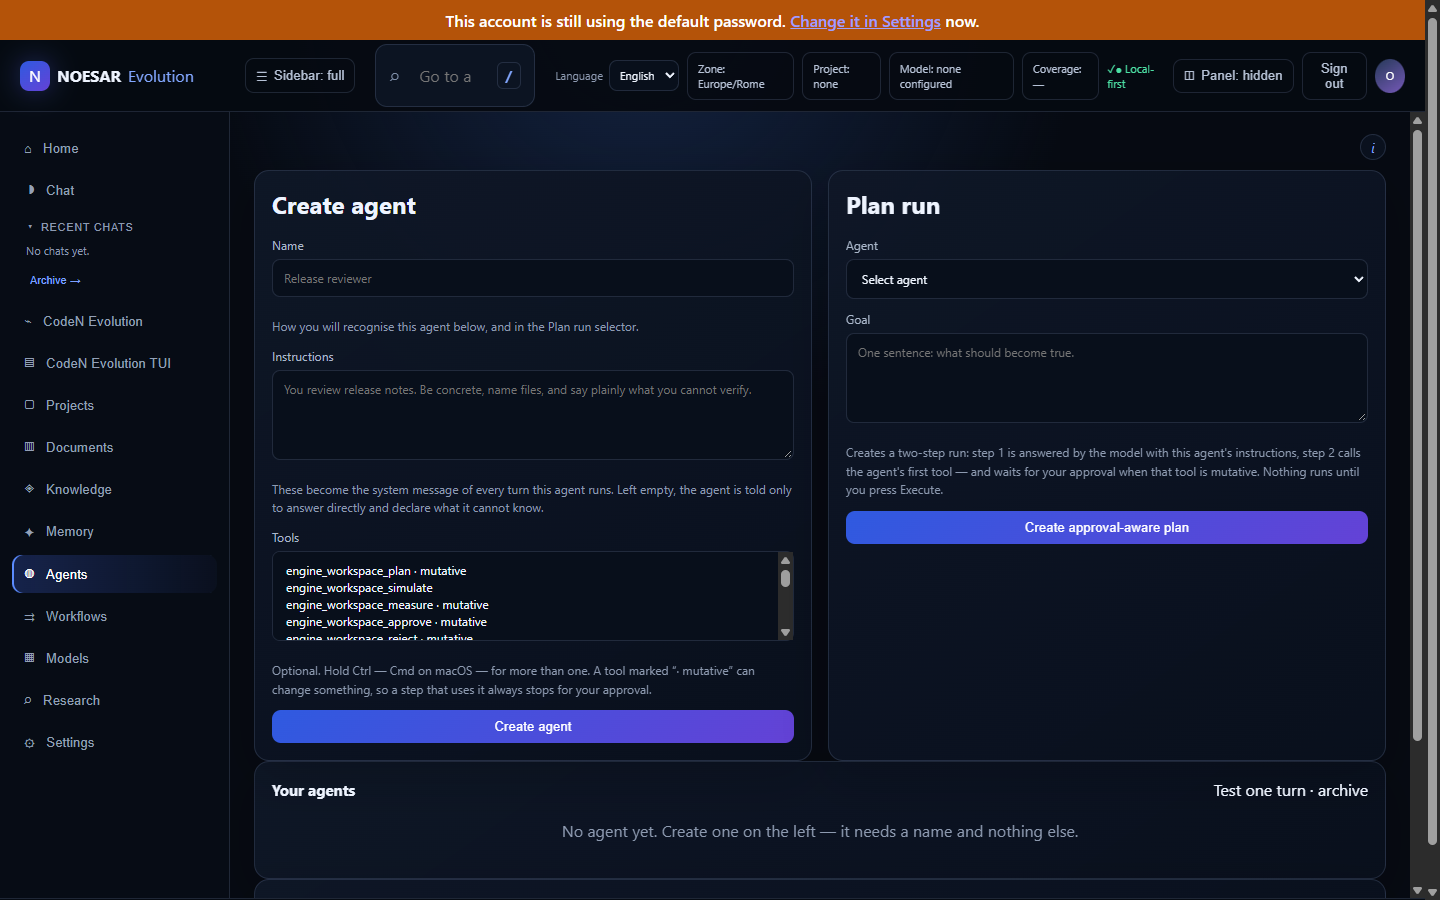
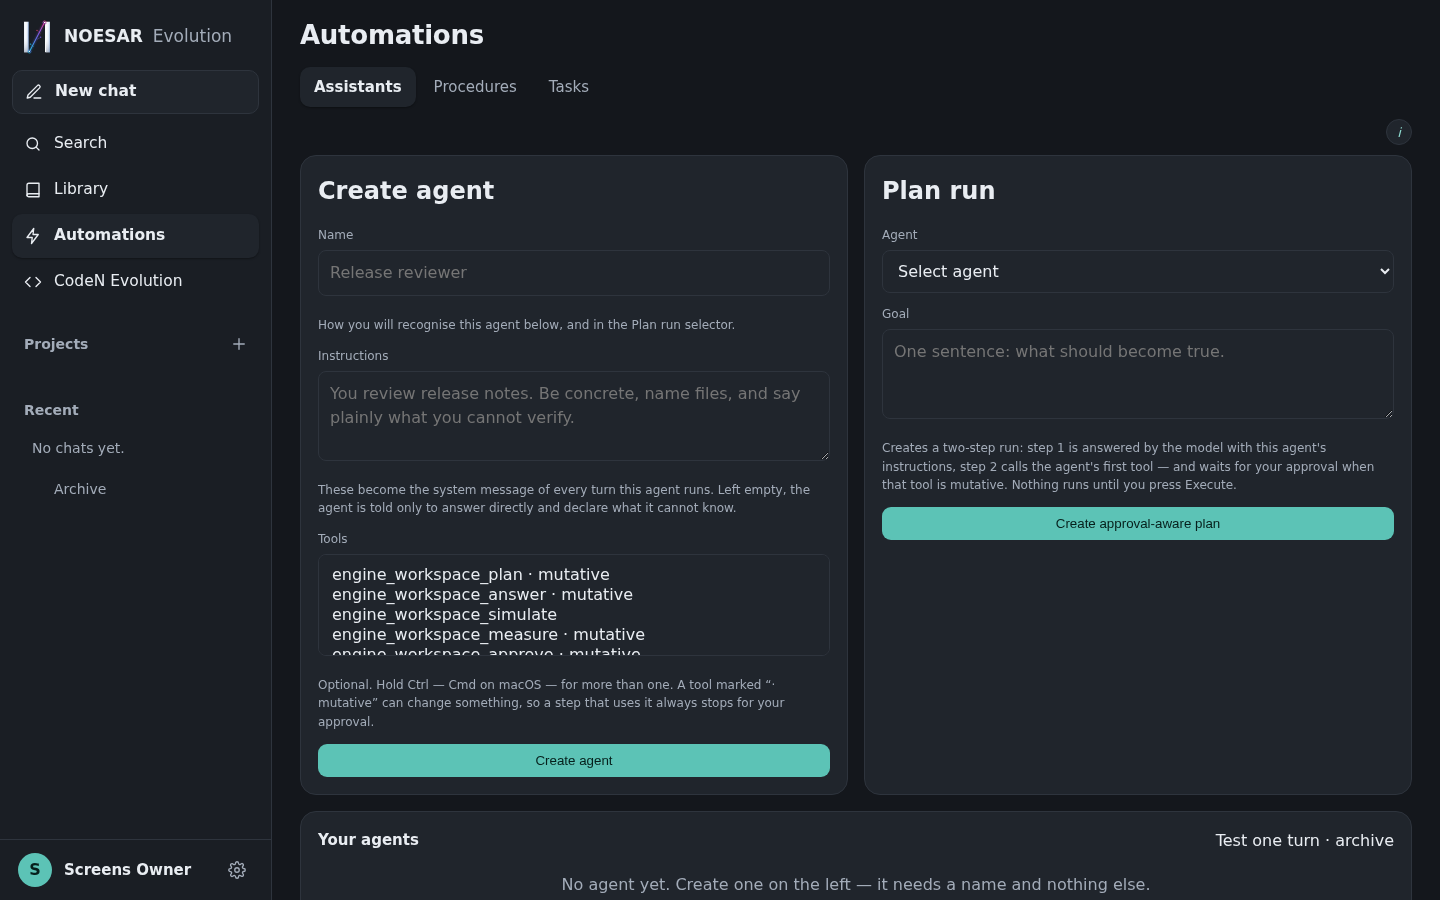
release: 0.4.0 -- one interface, six languages, and a web search that does not carry a person's documents out
The version (the constant the server announces, package.json, package-lock.json), the CHANGELOG entry, the figures of the README and the two pictures at its head. Nothing else:
`git diff --stat 8db52b4d..HEAD` is this list. The only line of code is `RELEASE_VERSION` in src/release-version.mjs, which release-version.test.mjs holds equal to the
two JSON files.

The figures were measured on 2026-10-16, from a clean clone of 8db52b4d (the code commit; GitHub's `gates` run on it is green): unit suite 3865 tests,
3830 pass, 0 fail, 35 skip (node:22-bookworm + openssh, zip, tzdata; the skipped need qrencode, the sandbox binary or the vendored ATOM binary); ESLint 563 files, 0 errors;
battery pass=22 fail=0 unavailable=1; installers 140 checks, 0 failures; engine 38 methods (24 read, 12 write, 2 destroy), 36 registered as tools; manifest 6822 files
complete against git; secret scan, no leaks over 1174 commits. On the same code: browser acceptance harness 523/523, tools/sweep-pages.mjs 855/855, WCAG audit 27/27
(on the tree of 8db52b4d).

The two pictures showed the Home, which no longer exists, on a 0.1.0 installation. They are now the chat and the Automations page of a fresh 0.4.0 installation, made with the
harness's own capture tool cut down to those two pages, and the caption says so. docs/screenshots/home.png is chat.png.

The release is published by the Owner (tag, push of the tag, GitHub release): this commit is on a branch and nothing in it publishes.

diff --git a/CHANGELOG.md b/CHANGELOG.md
@@ -6,6 +6,166 @@ reproduce from the tree is a defect, the same rule `README.md` states for its nu
 The format follows [Keep a Changelog](https://keepachangelog.com/en/1.1.0/); versions follow
 [Semantic Versioning](https://semver.org/spec/v2.0.0.html).
 
+## [0.4.0] — 2026-10-16
+
+A minor release, because **the interface is now one interface, and the assistant can search the web
+without a person's documents going out with the search**. Every number below states the conditions
+it was measured in, and every limit is listed beside the thing it limits.
+
+If you are on `0.3.0` or earlier, upgrade, for the reason under **Security**: until `05c28251` a
+signed-in account could read the engine's own credential files.
+
+### How it was measured
+
+On the author's development host, with invented data and the conditions written beside each number.
+
+- **Does a person's data leave with a web search?** A contract is pasted into the chat (invented, with
+  a tax code, an IBAN and a phone number whose check digits are real), then the question asks for a
+  search on the web. 3 different requests × 4 repetitions = 12 conversations per copy, the same local
+  model (Qwen2.5 7B) in both. In place of the internet, a stand-in search engine records every query it
+  receives: exactly what would have gone out.
+
+  | | searches that went out | **searches that carried data of the contract** |
+  |---|---|---|
+  | the build of 8 October (`53216a06`) | 12 of 12 | **8 of 12** |
+  | with the gate (`e7284156`) | 12 of 12 | **0 of 12** |
+
+  One scenario, one model, invented data: this is not a proof that nothing can leave. The harness is
+  not in this repository; the gate (`egress-gate.mjs`) and its tests (`egress-gate.test.mjs`,
+  `chat-egress-gate.test.mjs`) are.
+- **Is it readable?** `npm run test:accessibility`, the WCAG 2.2 AA audit of the repository: **27 of 27**
+  checks, among them the contrast of text in all nine themes (**7 758 measurements, 0 failures**, worst
+  case over every colour stop of a gradient).
+- **Does it fit?** `tools/sweep-pages.mjs`: the 45 addresses at 390, 768 and 1440 px, at both levels, in
+  the themes that matter, with the text at its largest step and the interface zoomed to 150 %:
+  **855 of 855** clean (no sideways scroll, no part off the screen, no control without a name, no
+  control under 24 px, no text under 4.5 : 1, none cut without dots, none under 12 px).
+- **The same on the real thing.** The 45 addresses × 2 levels × 9 themes (810 visits) and 207 clicks over
+  28 pages with every write blocked, in the six languages and at the largest text and zoom, driven in a
+  real browser on the author's own installation, with real models and sessions: no script error, no
+  failed request, no text under 4.5 : 1, no sideways scroll. That run found, and this release fixes, a
+  model menu cut by the top of the window and selection boxes under 24 px, which an empty test
+  installation cannot show.
+- **The browser acceptance harness** (`tools/run-browser-e2e.sh`, a disposable installation and a real
+  headless browser): **523 of 523** (on the tree of the code commit).
+- **The gates, from a clean clone of the code commit (`8db52b4d`)**, which the release commit changes
+  only in version numbers, this file, the README, two pictures and the manifest:
+
+  | | Command | Result |
+  |---|---|---|
+  | Unit suite | `sh BENCH_SWE/suite.sh` (`node:22-bookworm` + openssh, zip, tzdata) | 3865 tests — **3830 pass, 0 fail, 35 skip** (they need `qrencode`, the sandbox binary or the vendored ATOM binary) |
+  | Static analysis | `bash tools/run-eslint.sh` | ESLint 9.39.5 — **563 files, 0 errors, 0 warnings** |
+  | Verification battery | `sh scripts/test.sh` | **pass=22, fail=0, partial=0, unavailable=1** (`governance`: its hooks are not in a clone) |
+  | Installer parity | `node tools/test-cross-platform-installers.mjs` | **140 checks, 0 failures**; Windows read statically |
+  | Engine surface | the `node -e` line in `README.md` | **38 methods — 24 read, 12 write, 2 destroy**; 36 registered as tools, none destroying |
+  | Repository manifest | `node tools/generate-manifest.mjs --check` | 6 822 files, complete against git |
+  | Secrets | `sh tools/run-secret-scan.sh` | no leaks, 1174 commits |
+
+  The `gates` workflow on GitHub ran green on the same commit (unit suite, manifest, ESLint, secret scan
+  over the whole history): its runner skips a different set of tests, so its counts are its own.
+
+### Security
+
+- **The scan flaw (`05c28251`).** A scan or a search whose path started inside the engine's own folders
+  (`config/`, `audit/`, `state/`, `models/`, `module-credentials/`) was not refused. On a clean
+  installation, a signed-in account holding `workspace.read` (the default account has it) could read the
+  credential key, the first-access token, the audit chain and the engine's state files through
+  `GET /api/v1/repo-map/search`, `POST /api/v1/repo-map/scan` and the chat tool `engine_repoMap_search`;
+  and `documents.check` (`NOESAR_DECIDE=on`) read files at the paths it was given without looking at the
+  exclusions. A scan rooted in those folders now answers `422 ENGINE_STATE`, and `state/` no longer
+  returns the engine's files (`engine-state-exclusions.test.mjs`). If you gave an account to someone you
+  do not fully trust, **rotate the credential key after upgrading**.
+- **The internet comes in, a person's data does not go out (`e7284156`).** When the assistant has private
+  data in front of it and the person asks for the web, the search is written first by a separate call
+  that sees only the request with the data replaced by placeholders (`[DATO1]`); a gate of fixed rules,
+  no model, checks it before it leaves (a tax code, an IBAN, a VAT number or a card with a check digit; a
+  phone number, an email, an address, a date; names and numbers of the turn's private text; copied
+  phrases; encoded strings; web addresses; data split across searches) and lets it out, cleans it, asks,
+  or blocks it. The one who writes the answer sees the documents and has no web search. With an outside
+  AI service anywhere in the chain, no documents and no file reach it, and earlier answers that used them
+  are held back.
+- **The session proof is signed (`8379d1fe`, `b09810c9`).** An in-toto statement in a DSSE envelope,
+  Ed25519, on one page that verifies itself. Before, it ended with a 64-bit rolling hash that two
+  different proofs could share (`Aa` and `BB` do) and nothing was signed.
+
+### Added
+
+- **One interface for everyone.** One menu; the chat with the web search in its box (a switch that is
+  spent by sending the message); Settings with a Base and an Advanced level; CodeN on a page of its own,
+  the terminal in the middle and the job in progress on the right, with «Approve and apply» and the
+  receipt. The Home is gone, and nothing it held is lost: the tasks are a tab of Automations, the
+  inventory of services and the measure of review time are in Settings › Health and logs. Nine colour
+  themes and a free accent colour at every level, text size and zoom, and the project's own mark.
+- **Six languages**: English, and Italian, Spanish, French, German and Portuguese. The four new ones are a
+  first translation, not yet read by a native speaker. Choosing a language repaints what the code drew, in
+  both directions; the static markup is covered 949 of 949 strings in each.
+- **The assistant reads a person's files** (`53216a06`): a listing, one file as text, and the file a
+  question is about, read before the answer.
+- **Typed decisions for a local model, all off by default** (`NOESAR_DECIDE=on`): choosing the tool
+  families a message needs, judging each sentence of a document against its sources (`documents.check`)
+  and each web source, weighing the questions a model names before they stop CodeN, finding candidates by
+  words, and the proof of the bug run in the shadow copy. Off, they change nothing.
+- **Logs**: the Owner can delete the operational logs (the audit record is a different store and says
+  that it was done), and the box that said 200 now says what it is.
+- `tools/sweep-pages.mjs`, a measurement of every address at the widths a person uses; the WCAG audit
+  follows the interface of today.
+
+### Fixed
+
+- The selected row of seven controls was 1.2 to 2.2 : 1 in eight themes of nine; the chips and tabs in
+  seven themes were 3.4 to 4.1 : 1.
+- Every theme change and every «Delete logs» raised «[object Object]» and a red error (`toast()` called
+  with an object, in five places).
+- The chat box had no label.
+- 57 sentences written by the code were in English in the five other languages.
+- The model menu of the chat could leave the window; boxes and radios were under 24 px; the old pages set
+  their text from 9 to 11 px (now 12 at the least, still scaled by the text-size setting).
+- **Looked at, not measured.** Every address of the interface was shot and each shot was looked at; it
+  showed what no contrast number or overflow check had: field labels at 16 px beside captions of 12 px; the
+  API key field of a provider card squeezed to 41 px, and the log filters to 24 px on a phone; an icon tile
+  standing alone beside a hidden title; badges broken over two lines on a phone; an empty box on the right
+  of every CodeN bench address; the Tasks tab with the header of an older design; Settings standing against
+  the left edge of a wide window, with 600 px of nothing on its right; and, on the Models page of
+  a fresh installation, a system error (`ENOENT … scandir`) shown as the page's own words. Each has a test
+  written first and seen failing, and `tools/sweep-pages.mjs` now measures them on every address.
+- **Looked at again, with data in the pages.** A lab instance (a made-up model and search engine, two projects, conversations, a plan; no graphics card),
+  five pages in the nine themes, both levels, a phone and a tablet, found what an empty installation cannot show and one regression of the first fix: a field
+  set inside a label had taken the 12 px of the caption while the fields outside one kept 16 px (a page held both); the divergence profile of CodeN and the runs of a
+  chat's Work column had no style at all (their words ran together, drawn over the status bar); the button of a plan file and the Run of the bench terminal were
+  alone under a full-width field; on a phone the project name in a chat's header was printed over the title of the conversation; and placeholders were cut in the
+  middle of a word ("…huggingface.co ad"); cards stacked in a page touched each other (0 px between the boxes of Automations, Research, Models, Memory and Health and
+  logs); a page opened where the page before it had been scrolled to (Models opened 1800 px down, and on a phone the first line of a settings page was under the menu
+  button), because nothing put the scrolling element back at the top when the address changed; and on a phone the title of a session ran out of its row. The sweep now
+  measures what a browser can see on every address: the fields of one page at one size, a button alone under the only field of its row, a placeholder that does not
+  fit, two cards that touch, text under the menu button, an ellipsis on an element that cannot clip. The contrast of the divergence levels is 6.0 : 1 or more in all
+  nine themes.
+- On a dark theme, the native boxes, radios and scrollbars were drawn **white** when the computer was set to
+  light: the page leaves them to the operating system (`<meta name="color-scheme" content="light dark">`) and
+  only two of the nine themes said which scheme they were. Every theme now does (`4b3aa1b7`), and the sweep
+  compares the scheme the page resolved with the colour it paints.
+- A `docker build` from the sources failed on a retired pgvector pin (now `0.8.7-1.pgdg12+1`, `4c18a198`).
+
+Every one has a test written first and seen failing.
+
+### Not done yet
+
+- **The four new languages are a first translation**, not read by a native speaker. Names (`Midnight`,
+  `CodeN`, `NOESAR`) and codes (`PENDING_APPROVAL`) stay as they are.
+- **Library and Automations keep their older pages inside** their new tabs: there was no drawing for them.
+- **The gate does not make a web search private by itself.** The subject of a search goes out: that is
+  what a search is. A question that needs the data itself («which bank is this IBAN?») finds no answer on
+  the web, because the data does not leave. Inside a turn that has private data, a search is made only
+  when the person asks for the internet (the switch, or the words). The `/web` command typed in the
+  terminal does not go through the gate: it is text the person writes.
+- **The typed decisions are experimental and off.** Their measurements are in the commits, not here.
+- **CodeN's measure still does not run the bug's tests by default**: the reproduction in the shadow copy
+  exists and is off.
+- **No model was loaded for the last round of checks of this release**: the accessibility and layout
+  measurements above run on pages, not on a conversation with a model.
+- **macOS has never been executed**, and Windows is checked statically by the installer gate.
+- **`docs/LICENSE_STRATEGY.md` is still a proposal.** `LICENSE` (AGPL-3.0) governs this release.
+- **`production_ready` is `false`**: the independent security audit that holds it there has not been run.
+
 ## [0.3.0] — 2026-09-27
 
 A minor release, because **CodeN now does something different with a bug report**: it finds the
@@ -446,6 +606,8 @@ should be different.
   header on every source file are what governs this release; that document records an intended
   direction and has not been reviewed by counsel.
 
+[0.4.0]: https://github.com/komandante78/noesar-evolution-core/releases/tag/v0.4.0
+[0.3.0]: https://github.com/komandante78/noesar-evolution-core/releases/tag/v0.3.0
 [0.2.0]: https://github.com/komandante78/noesar-evolution-core/releases/tag/v0.2.0
 [0.1.2]: https://github.com/komandante78/noesar-evolution-core/releases/tag/v0.1.2
 [0.1.1]: https://github.com/komandante78/noesar-evolution-core/releases/tag/v0.1.1

diff --git a/README.md b/README.md
@@ -18,9 +18,9 @@
 [![offline](https://img.shields.io/badge/OFFLINE-NO%20API%20KEY-12C8EC?style=for-the-badge&labelColor=0F1B33)](#offline-by-default)
 [![no proprietary component](https://img.shields.io/badge/CORE%20RUNS-WITH%20NOTHING%20PROPRIETARY-F2318C?style=for-the-badge&labelColor=0F1B33)](docs/ATOM_ABSENT_ACCEPTANCE.md)
 
-[![tests](https://img.shields.io/badge/tests-3372%20passing%20%7C%2030%20skipped%20%7C%200%20failing-2EA043?style=flat-square)](#every-badge-above-has-a-command-behind-it)
-[![eslint](https://img.shields.io/badge/eslint-515%20files%20%7C%200%20errors-2EA043?style=flat-square)](#every-badge-above-has-a-command-behind-it)
-[![engine methods](https://img.shields.io/badge/engine%20methods-35-1E3A6E?style=flat-square)](#what-the-model-may-do)
+[![tests](https://img.shields.io/badge/tests-3830%20passing%20%7C%2035%20skipped%20%7C%200%20failing-2EA043?style=flat-square)](#every-badge-above-has-a-command-behind-it)
+[![eslint](https://img.shields.io/badge/eslint-563%20files%20%7C%200%20errors-2EA043?style=flat-square)](#every-badge-above-has-a-command-behind-it)
+[![engine methods](https://img.shields.io/badge/engine%20methods-38-1E3A6E?style=flat-square)](#what-the-model-may-do)
 [![mutative](https://img.shields.io/badge/mutative%20tools-12%20%7C%20approval%20gated-DB8B00?style=flat-square)](#what-the-model-may-do)
 [![destroy](https://img.shields.io/badge/destroying%20tools-0%20shipped-2EA043?style=flat-square)](#what-the-model-may-do)
 
@@ -64,13 +64,13 @@ files today, not network or processes, and every receipt says so. Needs Node 22 
 
 ## What it looks like
 
-Both shots are a real installation, not a mock-up: Windows 11, release `0.1.0`, installed from a
-clean clone on 2026-09-18 and photographed on its first run. The orange strip is the product
-enforcing its own rule — the first sign-in uses a password every installation starts with, and it
-says so until you change it.
+Both shots are release `0.4.0` on a fresh installation with no model loaded, made on 2026-10-16 by the
+browser harness that tests it (`tools/capture-screens.mjs`, cut down to these two pages, a headless
+browser at 1440 × 900). Nothing on them was drawn by hand, and the installation is the empty one the harness starts: the first one
+says what a new installation lacks, and offers to look for it on this computer.
 
 <p align="center">
-  <img src="docs/screenshots/home.png" alt="The home page of a fresh installation: Ask, Create, Act, and a Start here panel that names what this build can and cannot do" width="900">
+  <img src="docs/screenshots/chat.png" alt="The chat of a fresh installation: a greeting, a message box with a web-search switch, and a notice that says NOESAR needs an AI to answer, with a button to find one on this computer" width="900">
 </p>
 
 The one below is the claim this project is built around, in the interface rather than in a
@@ -78,7 +78,7 @@ document: every tool the engine exposes is labelled, and a step that uses one ma
 **· mutative** stops and waits for a person.
 
 <p align="center">
-  <img src="docs/screenshots/agents.png" alt="The Agents page: the tool list marks each tool mutative or not, and the text states that a mutative step always stops for approval" width="900">
+  <img src="docs/screenshots/agents.png" alt="The Automations page, Assistants tab: the tool list marks each tool mutative or not, and the text states that a mutative step always stops for approval" width="900">
 </p>
 
 ## The problem
@@ -114,7 +114,7 @@ derived from it rather than hand-kept beside it.
 
 | Effect | Methods | Registered as tools |
 |---|---:|---|
-| `read` | 21 | yes |
+| `read` | 24 | yes |
 | `write` | 12 | yes — **every call waits for a human approval mid-turn** |
 | `destroy` | 2 | **no. They do not ship as tools at all.** |
 
@@ -189,18 +189,18 @@ macOS ones, which nobody has ever executed, and it says so there too.
 
 ## Every badge above has a command behind it
 
-Measured on **2026-09-27**, for `0.3.0`, on the development host, from a clean clone of this repository, except
+Measured on **2026-10-16**, for `0.4.0`, on the development host, from a clean clone of this repository, except
 where a row says otherwise:
 
 | Claim | Command | Result |
 |---|---|---|
-| Unit suite | `npm test`, in CI (the `gates` workflow) | 3402 tests — **3372 pass, 0 fail, 30 skip**: the skipped ones need `qrencode`, the vendored ATOM binary or the sandbox binary, which the runner does not have |
-| Static analysis | `bash tools/run-eslint.sh` | ESLint 9.39.5 — **515 files, 0 errors, 0 warnings** |
+| Unit suite | `npm test` — here in `node:22-bookworm` with `openssh`, `zip` and `tzdata` added, which several tests start for real | 3865 tests — **3830 pass, 0 fail, 35 skip**: the skipped ones need `qrencode`, the vendored ATOM binary or the sandbox binary, which a clone does not carry. The `gates` workflow ran green on the same commit; its counts are on its own page |
+| Static analysis | `bash tools/run-eslint.sh` | ESLint 9.39.5 — **563 files, 0 errors, 0 warnings** |
 | Verification battery | `sh scripts/test.sh` | **pass=22, fail=0, partial=0, unavailable=1**: the one is `governance`, whose hooks git does not carry (`.claude/` is ignored), so a clone cannot run it |
 | Installer parity | `node tools/test-cross-platform-installers.mjs` | **140 checks, 0 failures** — Linux and macOS executed, Windows read statically |
-| Engine surface | the `node -e` line under [What the model may do](#what-the-model-may-do) | **35 methods — 21 read, 12 write, 2 destroy**; 33 registered as tools, 0 of them destroying |
+| Engine surface | the `node -e` line under [What the model may do](#what-the-model-may-do) | **38 methods — 24 read, 12 write, 2 destroy**; 36 registered as tools, 0 of them destroying |
 | Rust workspace | `cargo test --workspace --offline` | vendored, no network — **last measured 2026-09-01**, in `rust:1-bookworm`, and not re-run since |
-| Repository manifest | `node tools/generate-manifest.mjs` | 6 771 files |
+| Repository manifest | `node tools/generate-manifest.mjs` | 6 822 files |
 
 A number in this README that a reader cannot reproduce is a defect. If one of the commands above
 disagrees with the badge, the badge is wrong — open an issue.
